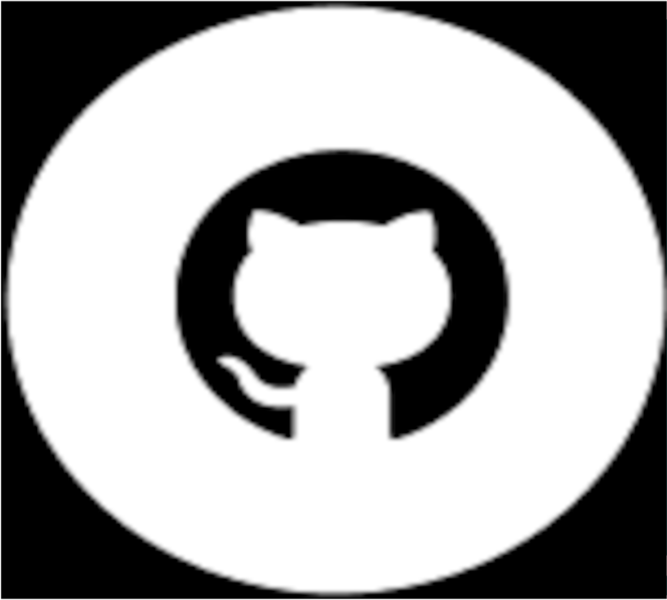
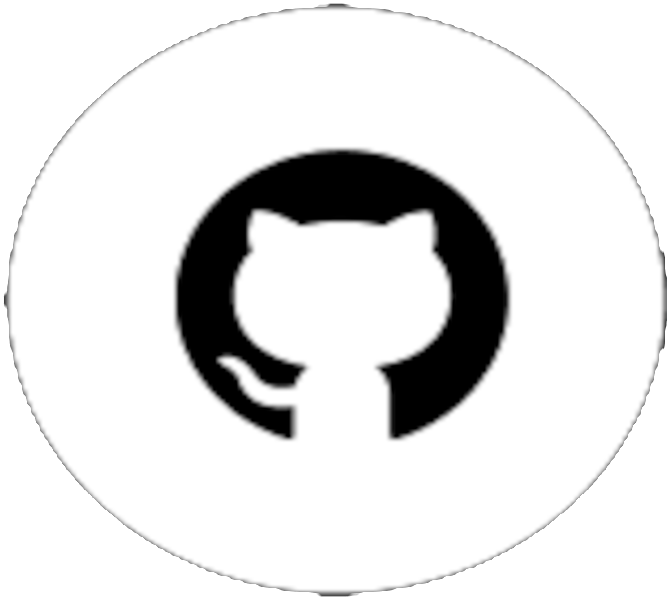
Smoothed out player move speed across different screen sizes. Also adjusted github footer image to remove uneeded pixels.

Changed region(s): [[0.0, 0.0, 1.0, 1.0]]

diff --git a/src/main.ts b/src/main.ts
@@ -62,7 +62,7 @@ let verticalMovement: number;
 let moveCounter: number;
 
 //Set variable required for score
-let scoreTarget: number = 10;
+let scoreTarget: number = 15;
 
 //Set variables required for time
 let timeLeft: number = 60;
@@ -194,20 +194,25 @@ const handleRestartGame = () => {
   //Reset Score and Time
   score = 0;
   timeLeft = 60;
+
   //Set power indicators to be on
   powerIndicatorTop.style.backgroundColor = "#02FF62";
   powerIndicatorBottom.style.backgroundColor = "#ffffff";
+
   //Remove results display and star/restart button
   resultsDisplay.style.display = "none";
   startButton.style.display = "none";
+
   //Reset player position
   player.style.top = "0";
   player.style.left = "0";
   horizontalMovement = 0;
   verticalMovement = 0;
+
   //Add event listeners to arrows
   handleAddEventListeners();
-  //Remove any exising gems and begin spawning new ones
+
+  //Remove any exising gems, adjust score and begin spawning new ones
   document.querySelectorAll(".game-display__gem").forEach((gem) => {
     gem.remove();
     score -= 1;
@@ -239,17 +244,27 @@ const handlePlayerMove = (event: Event) => {
       }
       case "left": {
         if (horizontalMovement > 0) {
-          horizontalMovement = horizontalMovement - 30;
+          horizontalMovement = horizontalMovement - screen.width / 20;
+        }
+        if (horizontalMovement > screen.width) {
+          horizontalMovement = screen.width;
         }
         break;
       }
       case "right": {
-        if (horizontalMovement < screen.width) {
-          horizontalMovement = horizontalMovement + 30;
+        if (horizontalMovement < screen.width / 4.95 + screen.width) {
+          horizontalMovement = horizontalMovement + screen.width / 20;
         }
         break;
       }
     }
+    console.log(
+      "Screen width = " +
+        screen.width +
+        ". Horizontal Movement = " +
+        horizontalMovement
+    );
+
     let vertical: string = `${verticalMovement.toString()}px`;
     player.style.top = `${vertical}`;
     let horizontal: string = `${horizontalMovement.toString()}px`;
@@ -280,4 +295,3 @@ const handleAddEventListeners = () => {
 
 //Add listener to start/restart button
 startButton.addEventListener("click", handleStartGame);
-//Add listener to document

diff --git a/index.html b/index.html
@@ -25,7 +25,7 @@
         <p class="game-display__objectives--time">Time Remaining: 60</p>
       </div>
       <img
-        src="./src/Images/player-placeholder.png"
+        src="./src/Images/player.png"
         alt="player character"
         class="game-display__player"
       />

diff --git a/src/Styling/_media-queries.scss b/src/Styling/_media-queries.scss
@@ -100,6 +100,8 @@
 
   .game-footer {
     margin-top: 30px;
-    transition: margin-top 0.5s;
+    transition: all 0.5s;
+    font-size: 30px;
+    color: $footer-font-colour;
   }
 }

diff --git a/src/Styling/_variables.scss b/src/Styling/_variables.scss
@@ -18,4 +18,8 @@ $power-top-on: #02ff62;
 
 $power-bottom-off: #898989;
 $power-bottom-on: #ffffff;
+
+//Footer
+$footer-font-colour: #ffffff;
+
 /////Font Variables/////

diff --git a/src/Styling/_layout.scss b/src/Styling/_layout.scss
@@ -75,7 +75,7 @@ body {
     align-self: flex-start;
     position: sticky;
     margin: 5px;
-    height: 100px;
+    height: 90px;
     width: 100px;
   }
 
